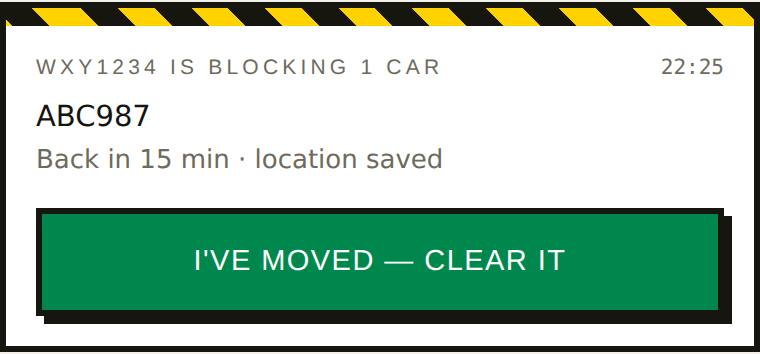
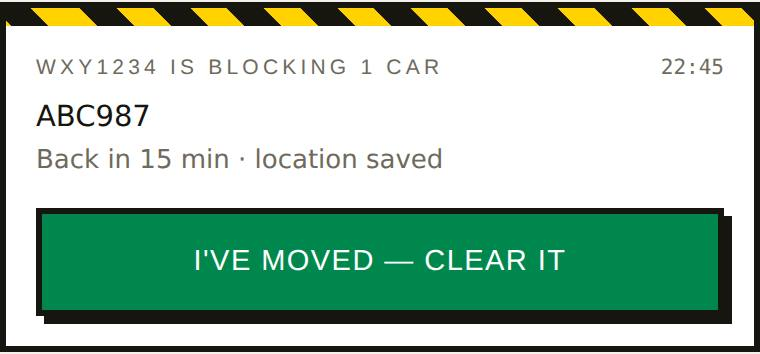
Log one visit a day with the state; drop the free-for-drivers line (#23)
visits table (user, Malaysia day, state), log_visit() for drivers and
visit_stats() for the admin. The client sends the state name only, once a day
per browser, never coordinates. Privacy page and terms say so. The 'Free for
drivers' rotator line, Help bullet and 'free account' wording are gone.

Claude-Session: https://claude.ai/code/session_01LZzr5kwdG5JXyeAKEinPdn

diff --git a/public/index.html b/public/index.html
@@ -339,7 +339,6 @@
             <div class="rl"><span class="ri">🌙</span><div class="rt"><b>No 2am calls.</b> A stranger can't ring you up to vent. Everything goes through the app.</div></div>
             <div class="rl"><span class="ri">😌</span><div class="rt"><b>Running late? Tell them.</b> They see when you'll be back, and can wait calmly.</div></div>
             <div class="rl"><span class="ri">🔍</span><div class="rt"><b>Blocked in yourself?</b> Type the plate and we find the driver. No shouting match.</div></div>
-            <div class="rl"><span class="ri">🎁</span><div class="rt"><b>Free for drivers.</b> Local shops pay for it, not you.</div></div>
           </div>
           <div class="rdots" id="rotDots"></div>
         </div>
@@ -357,7 +356,7 @@
       <div class="hazard"></div>
       <div class="pad">
         <h1 class="disp">Almost there.</h1>
-        <p>Make your free account. Your plate is how people reach you. Your name, email and number stay private.</p>
+        <p>Make your account. Your plate is how people reach you. Your name, email and number stay private.</p>
 
         <button class="btn" id="google"><span class="g">G</span>Continue with Google</button>
 
@@ -642,13 +641,11 @@ var MS = {
   "They see when you'll be back, and can wait calmly.":"Mereka nampak bila anda kembali, dan boleh menunggu dengan tenang.",
   "Blocked in yourself?":"Anda pula yang terhalang?",
   "Type the plate and we find the driver. No shouting match.":"Taip plat dan kami cari pemandunya. Tak perlu bergaduh.",
-  "Free for drivers.":"Percuma untuk pemandu.",
-  "Local shops pay for it, not you.":"Kedai tempatan yang membayar, bukan anda.",
   "Be the considerate driver.":"Jadilah pemandu yang bertimbang rasa.",
   "Get started":"Mula sekarang",
   "Your phone will ask to share your location once. It only checks you're in Malaysia, and other drivers never see it.":"Telefon anda akan minta kongsi lokasi sekali sahaja. Ia hanya menyemak anda berada di Malaysia, dan pemandu lain tidak akan nampaknya.",
   "Almost there.":"Hampir siap.",
-  "Make your free account. Your plate is how people reach you. Your name, email and number stay private.":"Buka akaun percuma anda. Plat anda ialah cara orang menghubungi anda. Nama, e-mel dan nombor anda kekal peribadi.",
+  "Make your account. Your plate is how people reach you. Your name, email and number stay private.":"Buka akaun anda. Plat anda ialah cara orang menghubungi anda. Nama, e-mel dan nombor anda kekal peribadi.",
   "We never sell your data.":"Kami tidak pernah menjual data anda.",
   "We sent a six-digit code to":"Kami hantar kod enam digit ke",
   ". It keeps fake plate claims out.":". Ia menghalang tuntutan plat palsu.",
@@ -858,11 +855,11 @@ function readGeo(){ try{ var s=sessionStorage.getItem("alih.geo"); return s?JSON
    reverse geocoder is free and needs no key; the result is cached per session
    because the fix barely moves and their policy asks for restraint. Purely
    cosmetic — everything still works when it fails. */
-async function describe(g){
-  var key = "alih.place."+g.lat.toFixed(3)+","+g.lng.toFixed(3);
+async function lookup(g){
+  var key = "alih.place2."+g.lat.toFixed(3)+","+g.lng.toFixed(3);
   try{
     var hit = sessionStorage.getItem(key);
-    if(hit) return hit;
+    if(hit) return JSON.parse(hit);
   }catch(e){}
 
   try{
@@ -875,11 +872,12 @@ async function describe(g){
       a.suburb || a.neighbourhood || a.village || a.town || a.city_district,
       a.city || a.town || a.state
     ].filter(Boolean).filter(function(v,i,arr){ return arr.indexOf(v)===i; }).slice(0,2).join(", ");
-    if(!name) return null;
-    try{ sessionStorage.setItem(key, name); }catch(e){}
-    return name;
+    var out = { name: name || null, state: a.state || null };
+    try{ sessionStorage.setItem(key, JSON.stringify(out)); }catch(e){}
+    return out;
   }catch(e){ return null; }
 }
+async function describe(g){ var r = await lookup(g); return r && r.name; }
 
 async function paintPlace(){
   if(!geo) return;
@@ -1189,6 +1187,23 @@ async function boot(session){
   enterApp();
 }
 
+/* Once a day per browser, tell the database the state this driver opened the app
+   from (the state's name only, never coordinates), so daily active drivers can be
+   counted and shown to merchants by state. Best effort: nothing waits on it. */
+async function logVisit(){
+  try{
+    var today = new Date().toISOString().slice(0,10), key = "alih.visit";
+    if(localStorage.getItem(key) === me.id+"|"+today) return;
+    var state = null;
+    if(geo){
+      var l = await lookup(geo);
+      state = (l && l.state) || (geo.inMY ? null : "Outside Malaysia");
+    }
+    var r = await sb.rpc("log_visit", { p_state: state });
+    if(!r.error) localStorage.setItem(key, me.id+"|"+today);
+  }catch(e){}
+}
+
 async function enterApp(){
   if(geo) paintPlace(); else $("topLoc").textContent = "📍 Location off";
   $("sheetName").textContent = me.name || (me.email||"").split("@")[0];
@@ -1200,6 +1215,7 @@ async function enterApp(){
   stage("app");
   render();
   pushSync(true);
+  logVisit();
   goTab(wantTab || tabFromUrl() || "pD");
   wantTab = null;
   await Promise.all([refresh(), loadAds()]);

diff --git a/public/privacy.html b/public/privacy.html
@@ -81,6 +81,7 @@
       <li><b>Your car plates.</b> The plates you add in Garage, so that the right driver gets the alert.</li>
       <li><b>Blocks and messages.</b> The blocks you declare or are caught in, and the short messages in them, so the two drivers can sort it out.</li>
       <li><b>Where you were.</b> Your position when you declare a block, and your approximate position to show the place name at the top of the app. Other drivers never see it.</li>
+      <li><b>The state you open the app from.</b> Once a day, when you open the app signed in, we note which state you are in (for example Selangor). Never your exact position. We use it to count how many drivers use the app each day and, as totals only, to show local shops roughly where drivers are.</li>
       <li><b>Your phone's alert address.</b> A code your phone gives us so we can send you alerts. It is not a phone number.</li>
       <li><b>Counts and limits.</b> A record that you used Trace (so nobody can try thousands of plates), and that an ad was shown to your account (so we count it once). Shops see only totals.</li>
     </ul>
@@ -175,6 +176,8 @@ var MS = {
   "The blocks you declare or are caught in, and the short messages in them, so the two drivers can sort it out.":"Halangan yang anda isytihar atau terperangkap di dalamnya, dan mesej ringkas di dalamnya, supaya kedua-dua pemandu boleh menyelesaikannya.",
   "Where you were.":"Di mana anda berada.",
   "Your position when you declare a block, and your approximate position to show the place name at the top of the app. Other drivers never see it.":"Kedudukan anda semasa mengisytihar halangan, dan kedudukan anggaran anda untuk menunjukkan nama tempat di atas aplikasi. Pemandu lain tidak pernah nampaknya.",
+  "The state you open the app from.":"Negeri tempat anda membuka aplikasi.",
+  "Once a day, when you open the app signed in, we note which state you are in (for example Selangor). Never your exact position. We use it to count how many drivers use the app each day and, as totals only, to show local shops roughly where drivers are.":"Sekali sehari, apabila anda membuka aplikasi dalam keadaan log masuk, kami mencatat negeri anda (contohnya Selangor). Bukan kedudukan tepat anda. Kami guna untuk mengira berapa ramai pemandu menggunakan aplikasi setiap hari dan, sebagai jumlah sahaja, untuk menunjukkan kepada kedai tempatan kira-kira di mana pemandu berada.",
   "Your phone's alert address.":"Alamat amaran telefon anda.",
   "A code your phone gives us so we can send you alerts. It is not a phone number.":"Kod yang telefon anda beri kepada kami supaya kami boleh menghantar amaran. Ia bukan nombor telefon.",
   "Counts and limits.":"Kiraan dan had.",

diff --git a/public/start.html b/public/start.html
@@ -115,7 +115,6 @@
             <div class="rl"><span class="ri">🌙</span><div class="rt"><b>No 2am calls.</b> A stranger can't ring you up to vent. Everything goes through the app.</div></div>
             <div class="rl"><span class="ri">😌</span><div class="rt"><b>Running late? Tell them.</b> They see when you'll be back, and can wait calmly.</div></div>
             <div class="rl"><span class="ri">🔍</span><div class="rt"><b>Blocked in yourself?</b> Type the plate and we find the driver. No shouting match.</div></div>
-            <div class="rl"><span class="ri">🎁</span><div class="rt"><b>Free for drivers.</b> Local shops pay for it, not you.</div></div>
           </div>
           <div class="rdots" id="rotDots"></div>
         </div>
@@ -158,7 +157,6 @@
         <ul>
           <li>Neither driver ever sees the other's name or email.</li>
           <li>Blocked but got no alert? Use <b>Trace</b>: type their plate and yours, and we'll find them.</li>
-          <li>Free for drivers.</li>
         </ul>
       </div>
     </section>
@@ -351,7 +349,6 @@ var MS = {
   "They see when you'll be back, and can wait calmly.":"Mereka nampak bila anda kembali, dan boleh menunggu dengan tenang.",
   "Blocked in yourself?":"Anda pula yang terhalang?",
   "Type the plate and we find the driver. No shouting match.":"Taip plat dan kami cari pemandunya. Tak perlu bergaduh.",
-  "Local shops pay for it, not you.":"Kedai tempatan yang membayar, bukan anda.",
   "Double-parked? Blocked in? Sort it politely.":"Parkir berganda? Terhalang? Selesaikan dengan sopan.",
   "Set up in 3 minutes":"Sedia dalam 3 minit",
   "I've used it before — open the app":"Saya pernah guna — buka aplikasi",
@@ -374,7 +371,6 @@ var MS = {
   "Blocked but got no alert? Use":"Dihalang tetapi tiada amaran? Guna",
   "Trace":"Jejak",
   ": type their plate and yours, and we'll find them.":": taip plat mereka dan plat anda, kami akan cari mereka.",
-  "Free for drivers.":"Percuma untuk pemandu.",
   "Do this once, now — not when you're already stuck in a car park.":"Buat sekali, sekarang — bukan ketika anda sudah tersangkut di tempat letak kereta.",
   "Step 1 · Put Tolong Alih on your home screen":"Langkah 1 · Letak Tolong Alih di skrin utama",
   "So alerts reach you even when your phone is locked. On iPhone, alerts only work after this step.":"Supaya amaran sampai walaupun telefon dikunci. Di iPhone, amaran hanya berfungsi selepas langkah ini.",

diff --git a/public/terms.html b/public/terms.html
@@ -80,6 +80,7 @@
       <li>The car plates you add, the blocks you declare, and the messages in them.</li>
       <li>Your phone's alert address, so we can send you alerts.</li>
       <li>Where you were when you declared a block. Other drivers never see it.</li>
+      <li>The state you open the app from (for example Selangor), once a day, never your exact position. We use it to count daily drivers and, as totals only, to show local shops where drivers are.</li>
     </ul>
 
     <h2 class="disp">Who sees what</h2>
@@ -169,6 +170,7 @@ var MS = {
   "The car plates you add, the blocks you declare, and the messages in them.":"Plat kereta yang anda tambah, halangan yang anda isytihar, dan mesej di dalamnya.",
   "Your phone's alert address, so we can send you alerts.":"Alamat amaran telefon anda, supaya kami boleh menghantar amaran kepada anda.",
   "Where you were when you declared a block. Other drivers never see it.":"Di mana anda berada semasa mengisytihar halangan. Pemandu lain tidak pernah nampaknya.",
+  "The state you open the app from (for example Selangor), once a day, never your exact position. We use it to count daily drivers and, as totals only, to show local shops where drivers are.":"Negeri tempat anda membuka aplikasi (contohnya Selangor), sekali sehari, bukan kedudukan tepat anda. Kami guna untuk mengira pemandu harian dan, sebagai jumlah sahaja, untuk menunjukkan kepada kedai tempatan di mana pemandu berada.",
   "Who sees what":"Siapa nampak apa",
   "The other driver sees your car plate and the short message, such as \"back in 15 min\". They do not see your name, email or phone number.":"Pemandu lain nampak plat kereta anda dan mesej ringkas, seperti \"kembali dalam 15 min\". Mereka tidak nampak nama, e-mel atau nombor telefon anda.",
   "Our team can see the records, only to run the service and fix problems.":"Pasukan kami boleh melihat rekod, hanya untuk menjalankan perkhidmatan dan membetulkan masalah.",
